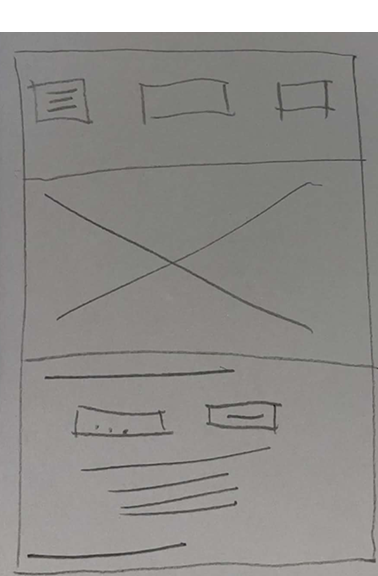
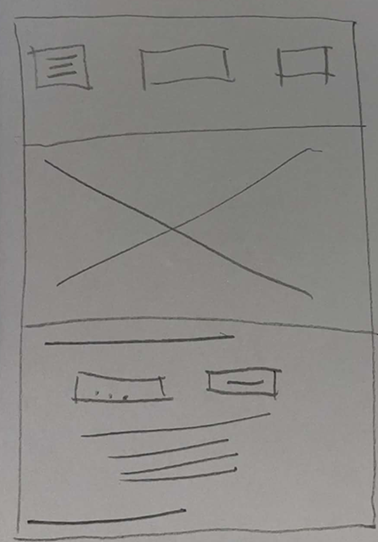
Small fixes

diff --git a/src/a1/a1.md b/src/a1/a1.md
@@ -36,7 +36,7 @@ The sitemap illustrates the hierarchical structure of the website, ensuring a lo
 ![Sitemap of the Animal Shelter Website](./imgs/Sitemap.png)
 
 ### **User Flow Diagram**
-This diagram maps out the specific path Matthew takes to achieve his goal: finding a high-energy but gentle dog and reaching the application form to submit his request at adopting a pet.
+This diagram maps out the specific path Matthew takes to achieve his goal: finding a high-energy but gentle dog and reaching the application form to submit his request at adopting a pet. <br />
 ![UserFlow Diagram for Pet Search](./imgs/UserFlow.png)
 
 ## Low-Fidelity Wireframes and Annotations